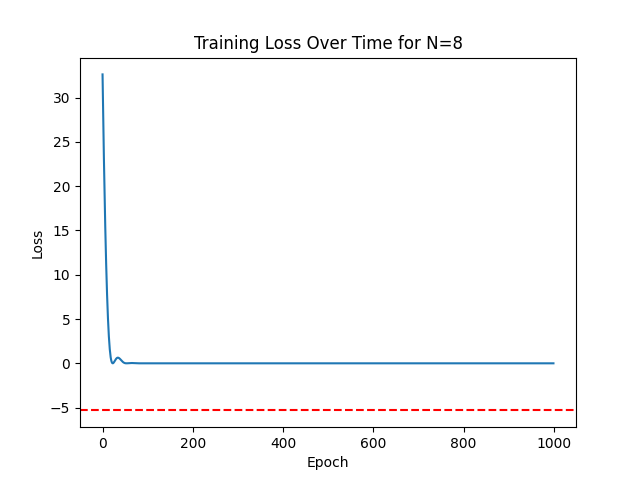
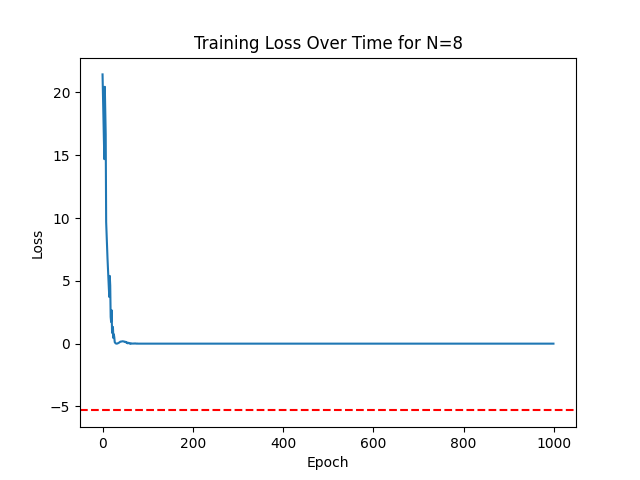
ran more experiments

diff --git a/SYK_Hamiltonian_HA_Model/SYK_Model_Pipeline.py b/SYK_Hamiltonian_HA_Model/SYK_Model_Pipeline.py
@@ -34,7 +34,7 @@ parser = argparse.ArgumentParser()
 parser.add_argument('--model_name', type=str, default='model1', help='Name of the model to save')
 parser.add_argument("--N", type=int, default=8, help="Number of fermions")
 parser.add_argument("--qubits", type=int, default=4, help="enter number of qubits")
-parser.add_argument("--depth", type=int, default=1, help="depth of quantum circuit")
+parser.add_argument("--depth", type=int, default=2, help="depth of quantum circuit")
 
 args = parser.parse_args()
 N=args.N
@@ -339,7 +339,7 @@ for name, layer in model.named_modules():
 
 
 # Sample input
-input_data = torch.rand(256, requires_grad=True)  # Example input
+input_data = torch.rand(len(hamiltonian_matrix), requires_grad=True)  # Example input
 #input_data= torch.tensor([ 0.3679, -0.0602,  0.6200,  0.1083, -0.0054,  0.0107,  0.1241, 0.3679, -0.0602,  0.6200,  0.1083, -0.0054,  0.0107,  0.1241])
 
 # Optimization setup
